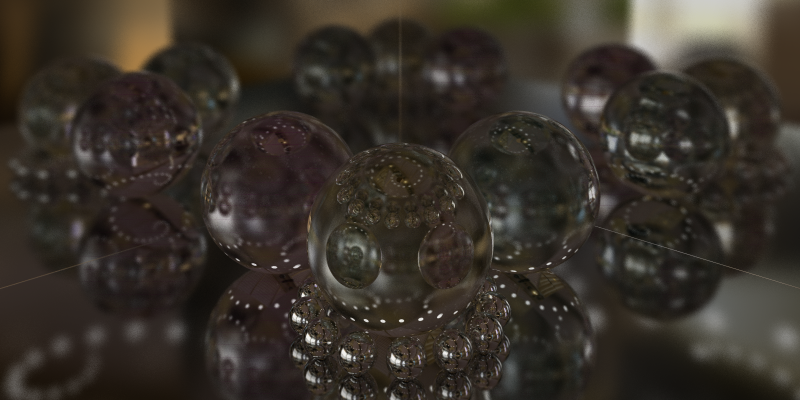
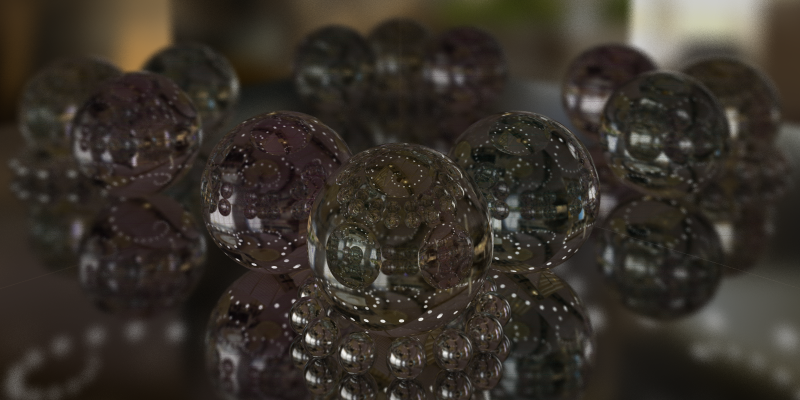
Normalized Metal reflections

diff --git a/src/component/Tracer/World/Scenes/ExampleA.js b/src/component/Tracer/World/Scenes/ExampleA.js
@@ -125,39 +125,9 @@ export default class SceneExampleA extends Scene {
       );
     }
 
-    // this.addSphere(
-    //   vec3.fromValues(-4.5, 5.0, -10.0),
-    //   1.0,
-    //   new MaterialLightDiffuse(
-    //     new TextureConstant(
-    //       vec3.fromValues(SCALAR_LIGHT, SCALAR_LIGHT, SCALAR_LIGHT)
-    //     )
-    //   )
-    // );
-
-    // this.addSphere(
-    //   vec3.fromValues(0.0, 5.0, -10.0),
-    //   1.0,
-    //   new MaterialLightDiffuse(
-    //     new TextureConstant(
-    //       vec3.fromValues(SCALAR_LIGHT, SCALAR_LIGHT, SCALAR_LIGHT)
-    //     )
-    //   )
-    // );
-
-    // this.addSphere(
-    //   vec3.fromValues(4.5, 5.0, -10.0),
-    //   1.0,
-    //   new MaterialLightDiffuse(
-    //     new TextureConstant(
-    //       vec3.fromValues(SCALAR_LIGHT, SCALAR_LIGHT, SCALAR_LIGHT)
-    //     )
-    //   )
-    // );
-
     // Floor and walls
     const TEXTURE_FLOOR = new TextureConstant(vec3.fromValues(0.8, 0.8, 0.8));
-    const MATERIAL_FLOOR = new MaterialMetal(TEXTURE_FLOOR, 0.1);
+    const MATERIAL_FLOOR = new MaterialMetal(TEXTURE_FLOOR, 0.02);
 
     const BOX_SIZE = 4;
     const BOX_SIZE_HALF = BOX_SIZE * 0.5;

diff --git a/src/component/Tracer/World/Scenes/ExampleB.js b/src/component/Tracer/World/Scenes/ExampleB.js
@@ -22,10 +22,8 @@ export default class SceneExampleB extends Scene {
 
     // Materials
     const TEXTURE_METAL = new TextureConstant(vec3.fromValues(0.9, 0.9, 0.9));
-    const MATERIAL_METAL = new MaterialMetal(TEXTURE_METAL, 0.1);
-
-    const TEXTURE_FLOOR = new TextureConstant(vec3.fromValues(0.9, 0.9, 0.9));
-    const MATERIAL_FLOOR = new MaterialMetal(TEXTURE_FLOOR, 0.4);
+    const MATERIAL_METAL = new MaterialMetal(TEXTURE_METAL, 0.001);
+    const MATERIAL_FLOOR = new MaterialMetal(TEXTURE_METAL, 0.02);
 
     const MATERIAL_DIELECTRIC = new MaterialDielectric(1.5);
 
@@ -65,6 +63,16 @@ export default class SceneExampleB extends Scene {
           Math.cos(progressIntervalTau * i) * radius
         ),
         10,
+        MATERIAL_DIELECTRIC
+      );
+
+      this.addSphere(
+        vec3.fromValues(
+          Math.sin(progressIntervalTau * i) * radius,
+          10.01,
+          Math.cos(progressIntervalTau * i) * radius
+        ),
+        -8,
         MATERIAL_DIELECTRIC
       );
     }

diff --git a/src/component/Tracer/Material/MaterialMetal.js b/src/component/Tracer/Material/MaterialMetal.js
@@ -19,8 +19,8 @@ export default class MaterialMetal extends Material {
     const ROUGH = this.ROUGH;
 
     // Reflected
-    //let reflected = reflect(rayIn.getDirectionNormalized(), hitRecord.normal); // ?
-    let reflected = reflect(rayIn.getDirection(), hitRecord.normal); // ?
+    let reflected = reflect(rayIn.getDirectionNormalized(), hitRecord.normal); // ?
+    //let reflected = reflect(rayIn.getDirection(), hitRecord.normal); // ?
 
     // Rough
     let roughness = getRandominUnitSphere();
